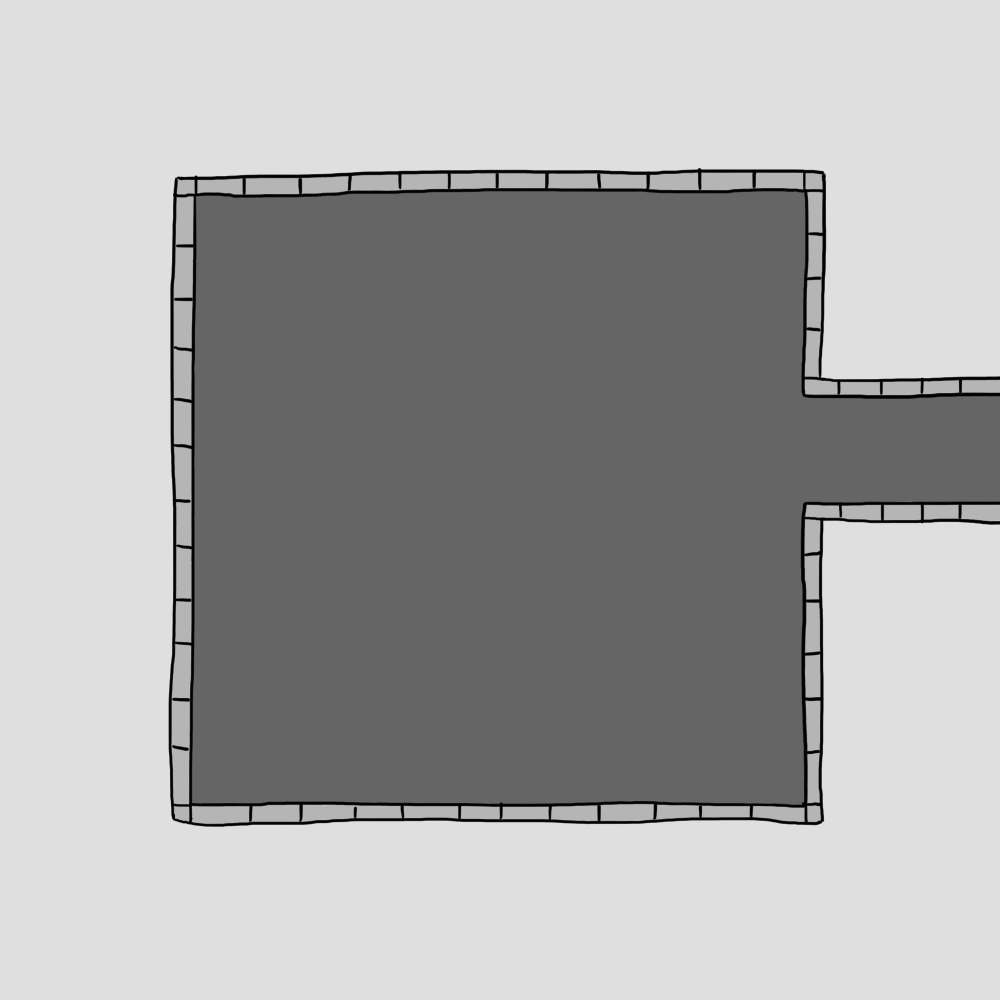
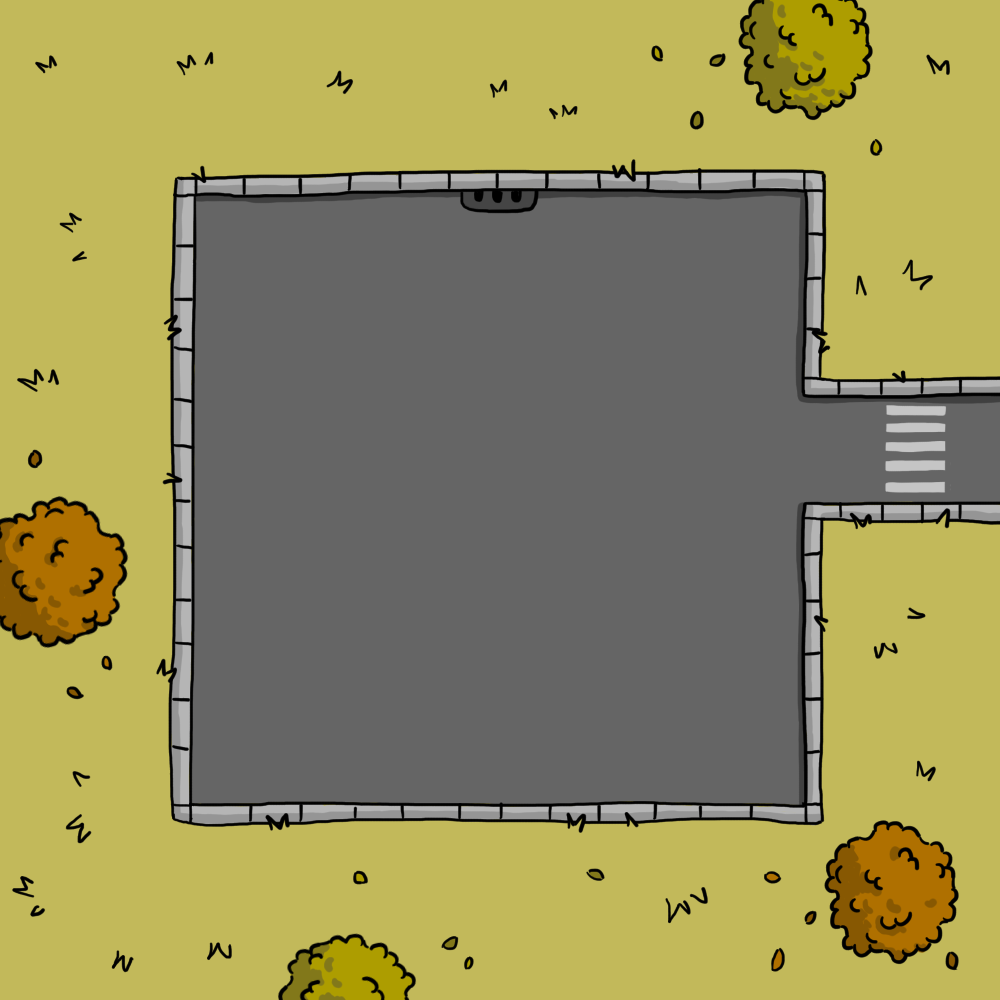
Update environment atyle

diff --git a/gui_vehicle.py b/gui_vehicle.py
@@ -9,12 +9,25 @@ OFFSET_X = 185     # La marge gauche sur ton dessin
 OFFSET_Y = 185     # La marge haute sur ton dessin
 
 VEHICLE_COLORS = {
-    "X": (204, 0, 0), "A": (144, 238, 144), "B": (255, 165, 0),
-    "C": (173, 216, 230), "D": (255, 182, 193), "E": (186, 85, 211),
-    "F": (0, 128, 0), "G": (90, 90, 90), "H": (245, 245, 220),
-    "I": (255, 255, 224), "J": (139, 69, 19), "K": (128, 128, 0),
-    "O": (255, 215, 0), "P": (216, 191, 216), "Q": (0, 0, 139),
-    "R": (64, 224, 208),
+    # Cars
+    "X": (204, 0, 0),      # red
+    "A": (144, 238, 144),  # light green
+    "B": (255, 165, 0),    # orange
+    "C": (173, 216, 230),  # light blue
+    "D": (255, 182, 193),  # pink
+    "E": (186, 85, 211),   # purple
+    "F": (0, 128, 0),      # dark green
+    "G": (90, 90, 90),     # dark gray
+    "H": (245, 245, 220),  # beige
+    "I": (255, 255, 224),  # light yellow
+    "J": (139, 69, 19),    # brown
+    "K": (128, 128, 0),    # khaki
+
+    # Trucks
+    "O": (255, 215, 0),    # yellow
+    "P": (216, 191, 216),  # light violet
+    "Q": (52, 119, 247),   # blue
+    "R": (64, 224, 208),   # turquoise
 }
 
 class GUIVehicle:

diff --git a/rush_hour_gui.py b/rush_hour_gui.py
@@ -27,7 +27,7 @@ class RushHourGUI:
         self.offset_y = 185       
 
         # On agrandit l'image de 5% (facteur 1.05) pour que les bordures s'écartent
-        self.bg_scale_factor = 1.06 
+        self.bg_scale_factor = 1.04
         
         try:
             raw_bg = pygame.image.load(os.path.join("images", "parking.png")).convert()
